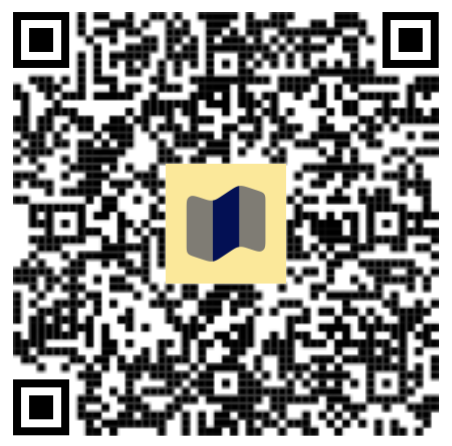
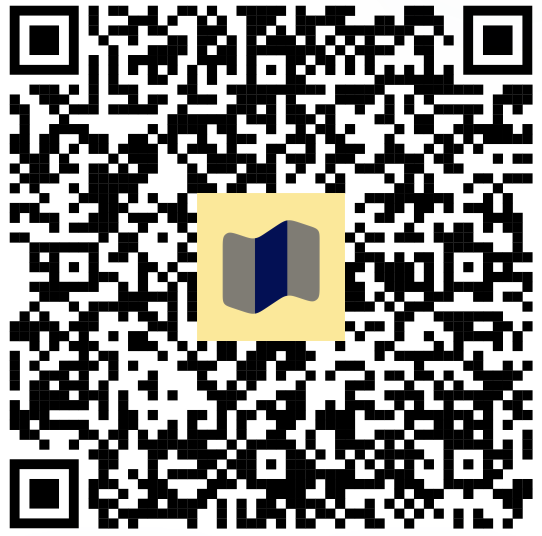
change qr for build 2

diff --git a/src/pages/index.js b/src/pages/index.js
@@ -46,25 +46,6 @@ function HomepageHeader() {
             Dev Doc
           </Link>
         </div>
-        <div className={styles.buttons}>
-          <button
-            className="button button--secondary button--lg"
-            onClick={handleButtonClick}
-          >
-            Backend API
-          </button>
-        </div>
-        <Link
-          className="button button--secondary button--lg"
-          to="https://expo.dev/client/"
-        >
-          Expo Go Official
-        </Link>
-        <div className="container">
-          <h2>Iteration 2 Build with Expo Go</h2>
-
-          <img src="/img/qr.png" />
-        </div>
       </div>
     </header>
   );

diff --git a/src/components/HomepageFeatures/index.js b/src/components/HomepageFeatures/index.js
@@ -53,15 +53,15 @@ export default function HomepageFeatures() {
   return (
     <section className={styles.features}>
       <div className="container">
-        <p>Iteration 1 Build</p>
+        <p>Iteration 1 APK Build</p>
         <img src="/img/qr_it_1.svg" />
       </div>
       <div className="container">
-        <p>Iteration 2 Build</p>
+        <p>Iteration 2 APK Build</p>
         <img src="/img/qr_it_2.png" />
       </div>
       <div className="container">
-        <p>Iteration 3 Build</p>
+        <p>Iteration 3 APK Build</p>
         <img src="/img/settle-aid-icon.png" />
       </div>
     </section>

diff --git a/docs/deployment/devops.md b/docs/deployment/devops.md
@@ -1,0 +1,90 @@
+# DevOps - CI/CD 🚀
+
+## Main Application Dockerfile
+
+The main Dockerfile is structured to set up the environment for the Python application:
+
+- Base Image: Starts from the official Python image python:3.9.17-bullseye.
+- Non-root User: A non-root user named myuser is created for better security.
+- Working Directory: Sets /usr/src/app as the working directory inside the container.
+- Requirements Installation:
+  1. Copies the requirements.txt file to the container.
+  2. Installs the Python packages listed in requirements.txt using pip.
+- Codebase Copy: All application code is then copied to the container's working directory.
+- File Ownership & Directories:
+  1. Changes the ownership of the working directory to myuser.
+  2. Ensures certain special directories exist and are owned by myuser, such as .pytest_cache and the torch cache for sentence transformers.
+- Default User: Switches to myuser so all commands run in the container will be executed as this user.
+- Default Command: The default command starts the application using uvicorn with the appropriate parameters.
+
+## Dockerfile.db
+
+This Dockerfile is tailored for the PostgreSQL setup with vector extensions:
+
+- Base Image: Uses ankane/pgvector as the base, specialized for vector operations in PostgreSQL.
+- PostGIS Extension: PostGIS, a spatial database extension for PostgreSQL, is installed to enable geographical functionalities.
+- Default Command: Specifies the default command to start PostgreSQL.
+
+## Docker Compose Overview
+
+### Services:
+
+1. db (PostgreSQL)
+
+- Docker Image: jirathipk/postgres-vec-geo:latest
+- Purpose: Used for our main application database.
+- Credentials:
+- Database: database
+- User: db_user
+- Password: password1234
+- Storage: A volume named database_volume persists the database data.
+
+2. redis
+
+- Docker Image: redis:latest
+- Purpose: Redis server for caching and other in-memory tasks.
+- Password: topmelloredis
+- Storage: A volume named redis_volume is used to persist the Redis data.
+
+3. backend
+
+- Docker Image: jirathipk/settle-aid-backend:latest
+- Purpose: Main application.
+- Port Mapping: Host's 8000 is mapped to container's 8000.
+- Dependencies: Relies on db and redis services to be running.
+- Credentials & Config: The environment section contains credentials and configurations.
+
+## GitHub Actions Workflows
+
+### Python Application Test with Docker
+
+This workflow is triggered whenever there's a push to our main branch. It:
+
+1. Checks out repository.
+2. Builds and starts Docker Compose services using the dev configuration.
+3. Runs pytest within backend service.
+4. Shuts down and removes the containers afterward.
+
+### Build and Push Images - Dockerhub
+
+Activated either manually or when there's a push to the deploy branch. The steps include:
+
+1. Checking out repository.
+2. Setting up QEMU & Docker Buildx.
+3. Logging into Docker Hub using saved credentials.
+4. Building Docker images from Dockerfiles (Dockerfile.db & Dockerfile.backend).
+5. Pushing these images to Docker Hub.
+
+## Deploying on GCP
+
+- SSH into GCP Instance: `gcloud compute ssh <instance-name> --zone <zone>`
+- Change directory: `cd ..`
+- Pull the Latest Docker Compose Configuration: `sudo docker-compose pull`
+- Start the Containers: `sudo docker-compose -p settle-aid up -d`
+  - The -p flag is to set a project name, which can be useful for running multiple environments on the same host
+  - The -d flag is to run the containers in the background
+
+## Actions for Developers:
+
+- Modifications: If there are modifications or additions to packages, update requirements.txt so the Docker build process incorporates these changes.
+- GitHub Workflows: The Python application test runs on pushes to the main branch, and the Dockerhub build and push are triggered either manually or when pushing to the deploy branch.

diff --git a/docs/backend/system_message.md b/docs/backend/system_message.md
@@ -43,9 +43,3 @@ To get message in the frontend:
 - const messageType = message.type;
 - const detailsType = message.message.details.type;
 - const detailsMsg = message.message.details.msg;
-
-## Logs 📜
-
-[Logs](https://api.settle-aid.tech/logs/)
-
-<iframe src="https://api.settle-aid.tech/logs/" width="100%" height="600px"></iframe>

diff --git a/docs/deployment/introduction.md b/docs/deployment/introduction.md
@@ -1,8 +1,7 @@
 ---
 sidebar_position: 1
 ---
+
 # Deployment Introduction
 
-Need to implement this for CI/CD for the backend
-
-https://cloud.google.com/blog/products/identity-security/enabling-keyless-authentication-from-github-actions
+...

diff --git a/docs/backend/logs.md b/docs/backend/logs.md
@@ -1,0 +1,5 @@
+# Logs 📜
+
+[Logs](https://api.settle-aid.tech/logs/)
+
+<iframe src="https://api.settle-aid.tech/logs/" width="100%" height="600px"></iframe>
